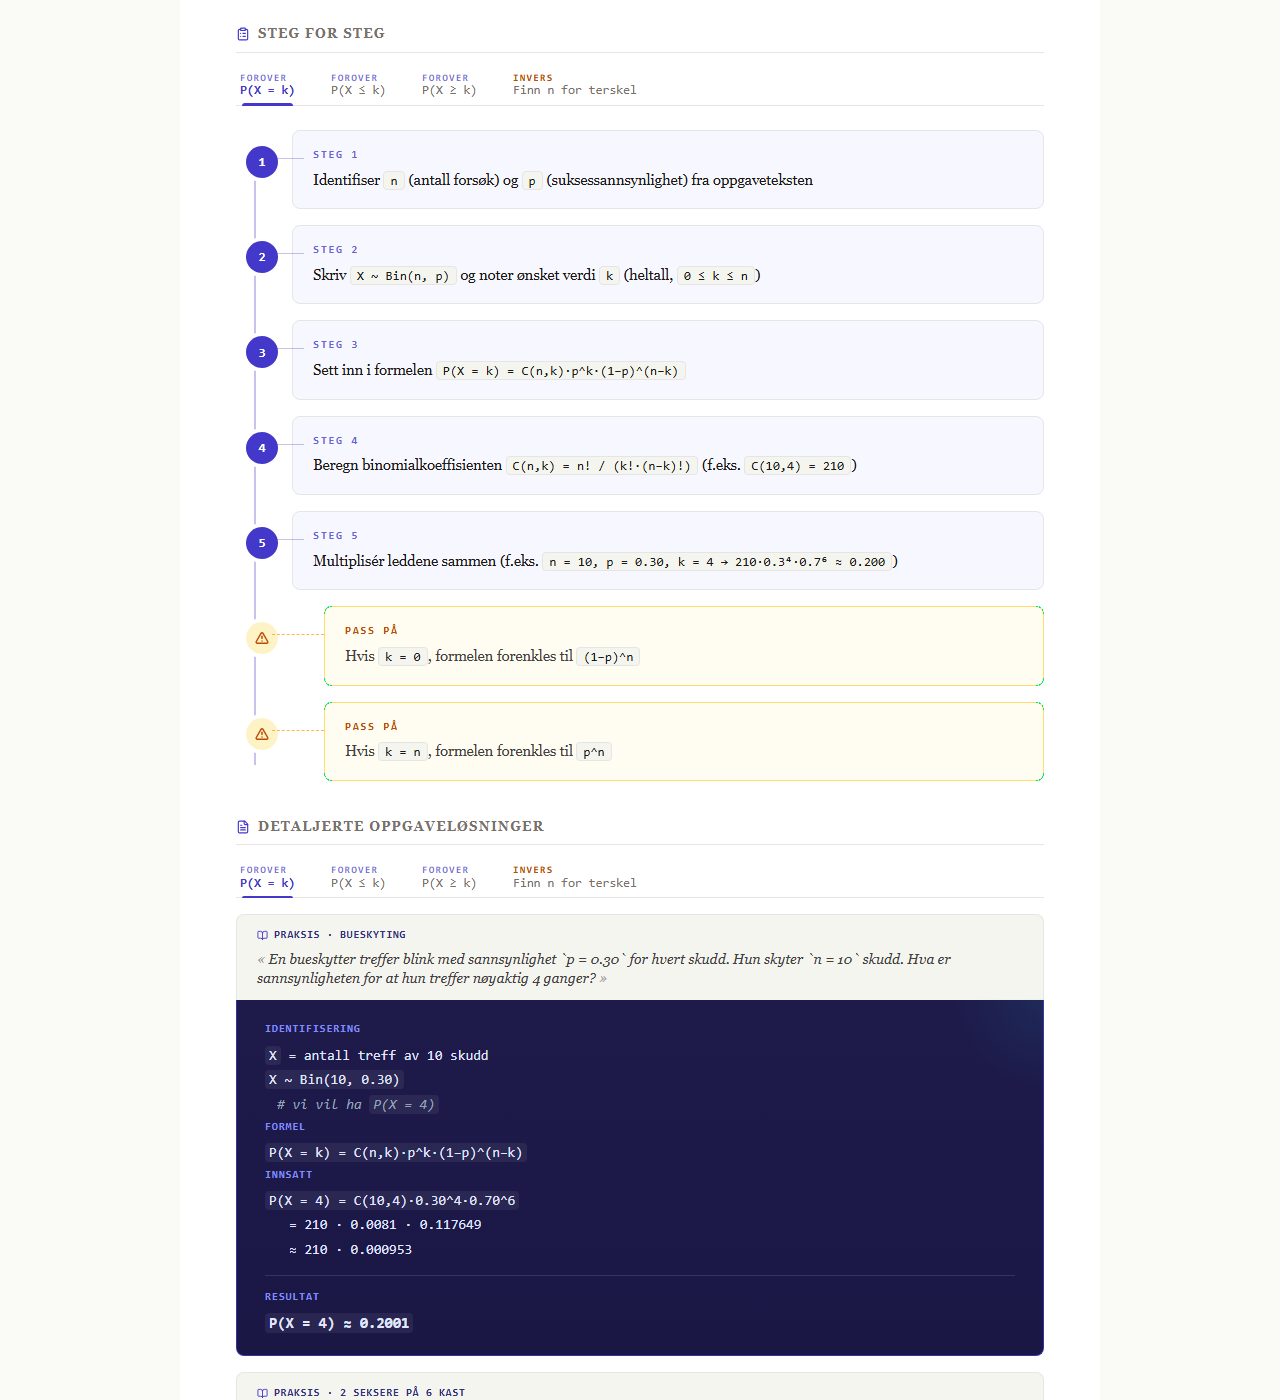
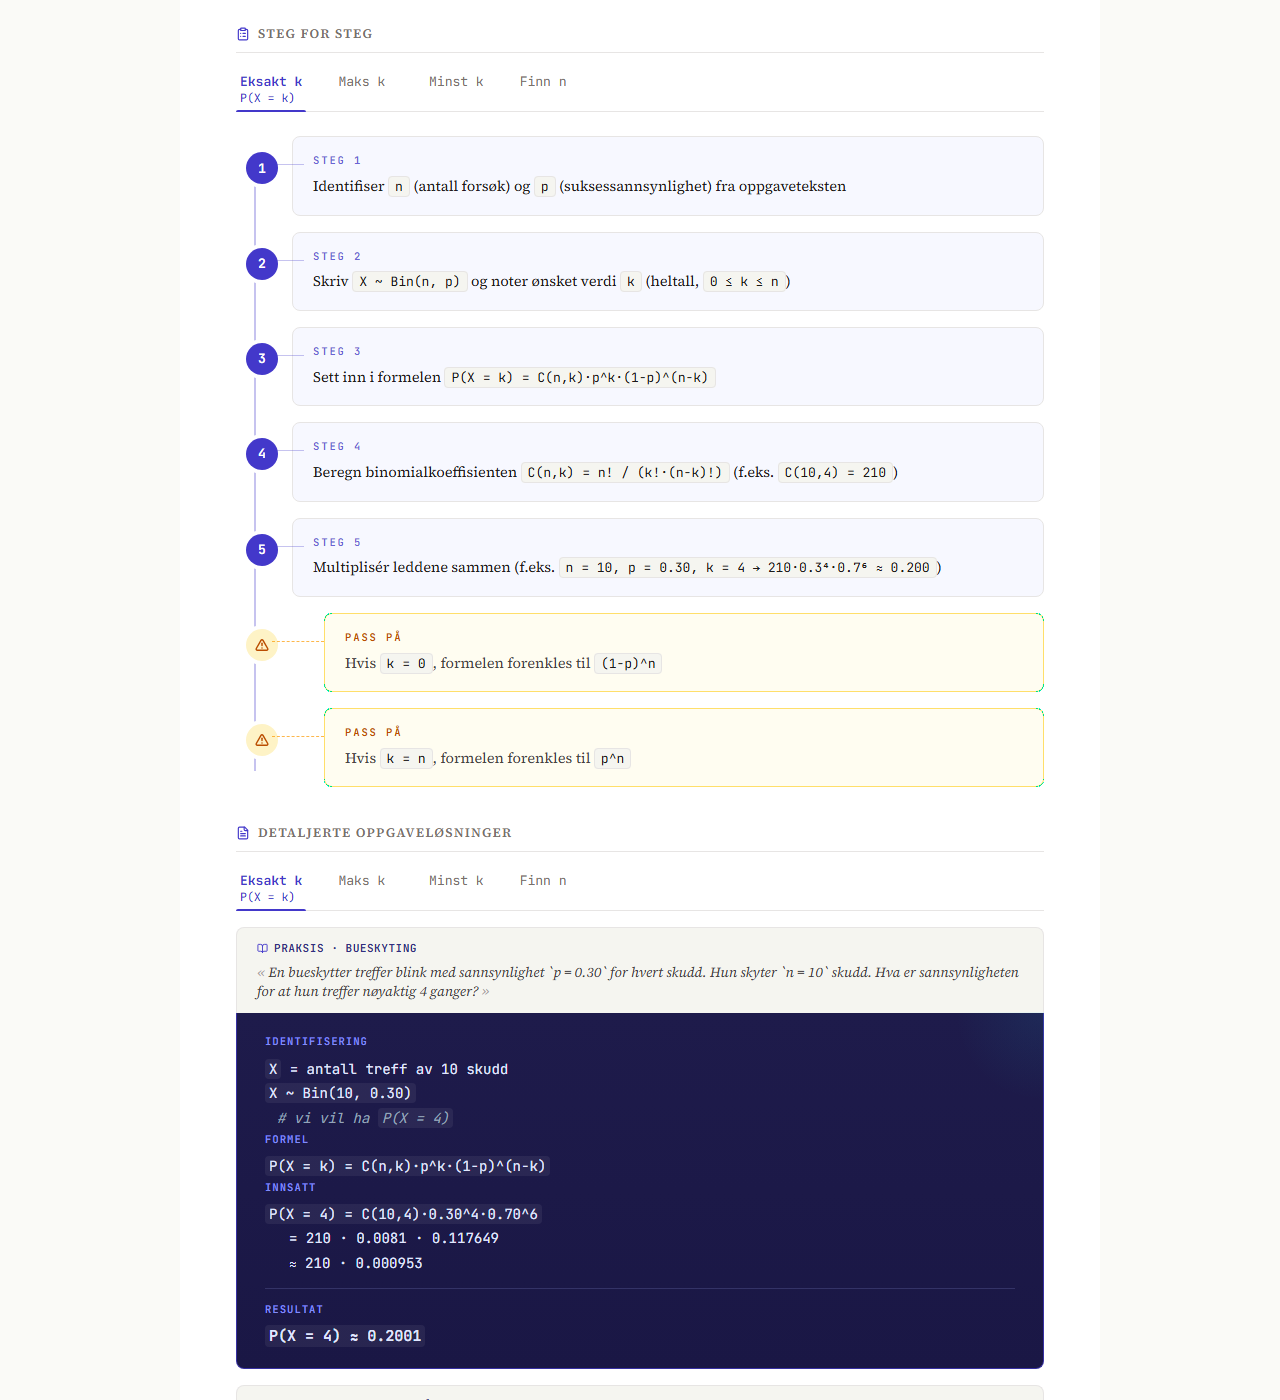
feat(detail): disclosure tabs with semantic names + stable height
The variant tab strip now shows just the natural-language name at
rest (e.g. "Mindre enn", "Større enn", "Intervall", "Finn x") and
reveals the formula expression below only on the active tab —
without shifting the rest of the page when a tab is selected.

- tab-category.ts: deriveTabMeta now returns both `short` (the
  natural name) and `formula` (the expression). Pattern matchers
  for P(X<x) → "Mindre enn", P(X≥k) → "Minst k", P(X=0) → "Ingen",
  em-dash tail like "P(T>t) — overlevelse" → "Overlevelse",
  hypothesis direction in parens → "Venstre"/"Høyre"/"Tosidig",
  Sum/Differanse/Lineær kombinasjon. Falls back to a cleaned label.
- VariantTabBar: dropped the FOROVER/INVERS small-caps row. Each
  tab always reserves space for the formula slot — opacity is
  toggled on active so the strip's height is constant. Underline
  colour follows kind (indigo for forover, amber for invers).
- vite.config: exclude .worktrees/** from the test runner so
  orphan worktree leftovers don't pollute the test sweep.

diff --git a/src/components/detail/tab-category.ts b/src/components/detail/tab-category.ts
@@ -1,55 +1,148 @@
 export type TabKind = "forover" | "invers" | "neutral";
 
 export interface TabMeta {
-  /** Small-caps category badge above the label, or `null` to omit. */
+  /** Small-caps category badge above the name, or `null` to omit. */
   tag: string | null;
   kind: TabKind;
-  /** The label with the redundant category prefix removed. */
+  /**
+   * Natural-language short name shown on the tab itself
+   * (e.g. "Mindre enn", "Finn x", "Venstre"). Always present.
+   */
   short: string;
+  /**
+   * Formula expression revealed when the tab is active in the
+   * disclosure layout (e.g. "P(X < x)", "H₁: μ < μ₀").
+   * `undefined` when the variant has no compact formula form.
+   */
+  formula?: string;
 }
 
 const PAREN_DIRECTION = /^(.+?)\s*\((venstre|høyre|tosidig)\)\s*$/i;
 
-function stripDescriptiveTail(text: string): string {
-  const dashSplit = text.split(/\s+[—–]\s+/);
-  const head = dashSplit[0].trim();
-  const parenStripped = head.replace(/\s+\([^)]+\)\s*$/, "");
-  return parenStripped || head || text;
+function capitalize(s: string): string {
+  return s.length ? s.charAt(0).toUpperCase() + s.slice(1) : s;
 }
 
 /**
- * Derives a short scannable label and an optional category badge from
- * a raw variant label. Used by the variant tab strips to give the
- * tabs visual hierarchy (small-caps tag over the formula) instead of
- * looking like one undifferentiated math expression.
+ * Strip a trailing parenthetical clarification ("Memoryless (gitt at …)")
+ * but keep parens that are part of an expression like "P(X = k)".
+ */
+function stripDescriptiveParen(text: string): string {
+  return text.replace(/\s+\([^)]+\)\s*$/, "").trim();
+}
+
+/**
+ * Derives a small natural-language name + an optional formula expression
+ * from a raw variant label. The tab strip uses `short` as the resting
+ * label and `formula` as the disclosure body that appears under the
+ * active tab. Heuristics — entries don't need to specify these
+ * explicitly. Falls back to the cleaned-up label if no pattern matches.
  */
 export function deriveTabMeta(label: string): TabMeta {
   const trimmed = label.trim();
 
+  // 1) Hypothesis-test direction in trailing parens — "(venstre)"/"(høyre)"/"(tosidig)"
   const dir = trimmed.match(PAREN_DIRECTION);
   if (dir) {
     return {
       tag: dir[2].toUpperCase(),
       kind: "forover",
-      short: dir[1].trim(),
+      short: capitalize(dir[2].toLowerCase()),
+      formula: dir[1].trim(),
     };
   }
 
+  // 2) "Invers: finn x" / "Invers: finn μ (eller σ)"
   if (/^Invers\b/i.test(trimmed)) {
-    const after = trimmed.replace(/^Invers\s*[:\-–—]?\s*/i, "");
-    const short = after
-      ? after.charAt(0).toUpperCase() + after.slice(1)
-      : trimmed;
-    return { tag: "INVERS", kind: "invers", short };
+    const after = trimmed.replace(/^Invers\s*[:\-–—]?\s*/i, "").trim();
+    if (!after) return { tag: "INVERS", kind: "invers", short: "Invers" };
+    // Strip parenthetical clarification when forming the short name.
+    const baseShort = capitalize(after.replace(/\s+\([^)]+\)\s*$/, ""));
+    return { tag: "INVERS", kind: "invers", short: baseShort, formula: trimmed };
   }
 
-  if (/^Finn\b/i.test(trimmed)) {
-    return { tag: "INVERS", kind: "invers", short: trimmed };
+  // 3) "Finn n for terskel" / "Finn k for terskel"
+  const findM = trimmed.match(/^Finn\s+(\S+)(?:\s+for\s+terskel)?/i);
+  if (findM) {
+    return {
+      tag: "INVERS",
+      kind: "invers",
+      short: `Finn ${findM[1]}`,
+      formula: trimmed,
+    };
   }
 
+  // 4) Probability expressions — "P(X < x)", "P(X = k)", etc.
   if (/^P\s*\(/.test(trimmed)) {
-    return { tag: "FOROVER", kind: "forover", short: stripDescriptiveTail(trimmed) };
+    // 4a) Em-dash carries an explicit name: "P(T > t) — overlevelse (...)"
+    const dashSplit = trimmed.split(/\s+[—–]\s+/);
+    const head = dashSplit[0].trim();
+    if (dashSplit.length > 1) {
+      const tailRaw = dashSplit.slice(1).join(" — ");
+      const tail = capitalize(stripDescriptiveParen(tailRaw));
+      return { tag: "FOROVER", kind: "forover", short: tail, formula: head };
+    }
+    // 4b) No explicit name — pattern-match the expression
+    const inner = head.match(/^P\s*\(([^)]+)\)/)?.[1].trim() ?? "";
+    const formula = head;
+    if (/=\s*0\b/.test(inner)) {
+      return { tag: "FOROVER", kind: "forover", short: "Ingen", formula };
+    }
+    if (/<.*<|≤.*≤/.test(inner)) {
+      return { tag: "FOROVER", kind: "forover", short: "Intervall", formula };
+    }
+    if (/[≤<]\s*[a-zA-ZμσXTtxk0-9]+\s*$/.test(inner) && !/[<≤]\s*[a-zA-ZμσXTtxk0-9]+\s*[<≤]/.test(inner)) {
+      // Single < or ≤ — but distinguish strict vs cumulative
+      if (/X\s*≤/.test(inner) || /T\s*≤/.test(inner)) {
+        return { tag: "FOROVER", kind: "forover", short: "Maks k", formula };
+      }
+      return { tag: "FOROVER", kind: "forover", short: "Mindre enn", formula };
+    }
+    if (/[>≥]/.test(inner)) {
+      if (/X\s*≥/.test(inner) || /T\s*≥/.test(inner)) {
+        return { tag: "FOROVER", kind: "forover", short: "Minst k", formula };
+      }
+      return { tag: "FOROVER", kind: "forover", short: "Større enn", formula };
+    }
+    if (/=/.test(inner)) {
+      return { tag: "FOROVER", kind: "forover", short: "Eksakt k", formula };
+    }
+    return { tag: "FOROVER", kind: "forover", short: head, formula };
   }
 
-  return { tag: null, kind: "neutral", short: stripDescriptiveTail(trimmed) };
+  // 5) Sum-uavhengige-normaler shapes
+  const sumLike = trimmed.match(/^(Sum|Differanse|Lineær kombinasjon)\s+(.+)$/i);
+  if (sumLike) {
+    const head = sumLike[1];
+    return {
+      tag: null,
+      kind: "neutral",
+      short: head === "Lineær kombinasjon" ? "Lineær" : capitalize(head.toLowerCase()),
+      formula: sumLike[2].trim(),
+    };
+  }
+
+  // 6) total-sannsynlighet variants
+  if (/^Forover\b/i.test(trimmed)) return { tag: "FOROVER", kind: "forover", short: "Forover", formula: trimmed };
+  if (/^Bakover\b/i.test(trimmed)) return { tag: "INVERS", kind: "invers", short: "Bakover", formula: trimmed };
+
+  // 7) Memoryless and similar "Single-word (descriptive paren)" patterns
+  const wordParen = trimmed.match(/^([A-Za-zæøåÆØÅ][\wæøåÆØÅ-]+)\s*\([^)]+\)\s*$/);
+  if (wordParen) {
+    return { tag: null, kind: "neutral", short: capitalize(wordParen[1]), formula: undefined };
+  }
+
+  // 8) komplementregelen-style names
+  const compactMap: Record<string, string> = {
+    "Minst k": "Minst k",
+    "Ingen / null": "Ingen",
+    "Ikke alle": "Ikke alle",
+  };
+  if (compactMap[trimmed]) {
+    return { tag: null, kind: "neutral", short: compactMap[trimmed] };
+  }
+
+  // 9) Long descriptive phrases — chop at first " — " or " (" and capitalize
+  const cleaned = stripDescriptiveParen(trimmed.split(/\s+[—–]\s+/)[0]);
+  return { tag: null, kind: "neutral", short: cleaned };
 }

diff --git a/src/components/detail/VariantTabBar.tsx b/src/components/detail/VariantTabBar.tsx
@@ -10,26 +10,34 @@ interface Props {
 }
 
 /**
- * Two-line variant tab strip: small-caps category tag (FOROVER /
- * INVERS / VENSTRE / …) over the cleaned-up label. When none of the
- * labels yield a category (e.g. Bayes-setning's method-style labels),
- * the tag row is omitted so the strip stays single-line.
+ * Disclosure-style variant tab strip with stable layout. Each tab
+ * shows its natural-language name (e.g. "Mindre enn", "Finn x") and
+ * reserves space below for the formula expression. The formula is
+ * faded in only on the active tab — total tab height is constant so
+ * the rest of the page never shifts when a tab is selected.
+ *
+ * The forover/invers distinction is carried by colour on the active
+ * state (indigo vs amber) and not by an explicit small-caps tag —
+ * the natural name itself is the category label.
  */
 export function VariantTabBar({ labels, active, onSelect, ariaLabel }: Props) {
   const metas = labels.map(deriveTabMeta);
-  const anyTag = metas.some((m) => m.tag !== null);
+  const anyFormula = metas.some((m) => m.formula);
 
   return (
     <div
       role="tablist"
       aria-label={ariaLabel}
-      className="flex flex-wrap gap-x-7 gap-y-0 border-b border-line"
+      className="flex flex-wrap items-stretch gap-x-7 gap-y-0 border-b border-line"
     >
       {labels.map((label, i) => {
         const meta = metas[i];
         const isActive = i === active;
-        const tagColor =
-          meta.kind === "invers" ? "text-amber-700" : "text-primary-2/70";
+        const activeText =
+          meta.kind === "invers" ? "text-amber-700" : "text-primary-2";
+        const activeUnderline =
+          meta.kind === "invers" ? "bg-amber-500" : "bg-primary-2";
+
         return (
           <button
             key={label}
@@ -39,35 +47,37 @@ export function VariantTabBar({ labels, active, onSelect, ariaLabel }: Props) {
             aria-label={label}
             onClick={() => onSelect(i)}
             className={clsx(
-              "relative flex flex-col items-start gap-0.5 px-1 pb-2 pt-1.5 leading-none transition-colors",
-              "focus:outline-none focus-visible:ring-2 focus-visible:rounded-sm focus-visible:ring-primary-2/60",
-              isActive ? "text-primary-2" : "text-ink-3 hover:text-ink-2",
+              "relative flex flex-col items-start px-1 pb-2 pt-2 leading-none",
+              "focus:outline-none focus-visible:rounded-sm focus-visible:ring-2 focus-visible:ring-primary-2/60",
+              isActive
+                ? clsx(activeText, "transition-colors")
+                : "text-ink-3 transition-colors hover:text-ink-2",
             )}
           >
-            {anyTag && (
-              <span
-                aria-hidden
-                className={clsx(
-                  "font-mono text-[9.5px] font-semibold uppercase tracking-[0.16em]",
-                  meta.tag ? tagColor : "select-none opacity-0",
-                )}
-              >
-                {meta.tag ?? "—"}
-              </span>
-            )}
             <span
               className={clsx(
-                "font-mono text-[12.5px]",
+                "font-mono text-[13px] transition-[font-weight] duration-150",
                 isActive && "font-semibold",
               )}
             >
               {meta.short}
             </span>
+            {anyFormula && (
+              <span
+                aria-hidden={!isActive}
+                className={clsx(
+                  "mt-1 font-mono text-[11.5px] transition-opacity duration-200 ease-out",
+                  isActive ? "opacity-100" : "opacity-0",
+                )}
+              >
+                {meta.formula ?? " "}
+              </span>
+            )}
             <span
               aria-hidden
               className={clsx(
-                "absolute inset-x-1.5 -bottom-px h-[2.5px] rounded-t-sm transition-all",
-                isActive ? "bg-primary-2" : "bg-transparent",
+                "absolute inset-x-0 -bottom-px h-[2.5px] rounded-t-sm transition-all",
+                isActive ? activeUnderline : "bg-transparent",
               )}
             />
           </button>

diff --git a/src/components/detail/tab-category.test.ts b/src/components/detail/tab-category.test.ts
@@ -2,53 +2,77 @@ import { describe, it, expect } from "vitest";
 import { deriveTabMeta } from "./tab-category";
 
 describe("deriveTabMeta", () => {
-  it("tags 'Invers: ...' labels as INVERS and capitalises the rest", () => {
-    expect(deriveTabMeta("Invers: finn x")).toEqual({
-      tag: "INVERS",
-      kind: "invers",
-      short: "Finn x",
+  it("derives 'Mindre enn' / 'Større enn' / 'Intervall' from P(X<x), P(X>x), P(a<X<b)", () => {
+    expect(deriveTabMeta("P(X < x)")).toEqual({
+      tag: "FOROVER",
+      kind: "forover",
+      short: "Mindre enn",
+      formula: "P(X < x)",
     });
+    expect(deriveTabMeta("P(X > x)").short).toBe("Større enn");
+    expect(deriveTabMeta("P(a < X < b)").short).toBe("Intervall");
   });
 
-  it("tags 'Finn ...' labels as INVERS without rewriting the short", () => {
-    expect(deriveTabMeta("Finn n for terskel")).toEqual({
-      tag: "INVERS",
-      kind: "invers",
-      short: "Finn n for terskel",
-    });
+  it("recognises P(X = k), P(X ≤ k), P(X ≥ k), P(X = 0) shapes", () => {
+    expect(deriveTabMeta("P(X = k)").short).toBe("Eksakt k");
+    expect(deriveTabMeta("P(X ≤ k)").short).toBe("Maks k");
+    expect(deriveTabMeta("P(X ≥ k)").short).toBe("Minst k");
+    expect(deriveTabMeta("P(X = 0)").short).toBe("Ingen");
   });
 
-  it("tags 'P(...)' labels as FOROVER and drops the descriptive em-dash tail", () => {
+  it("uses the em-dash tail as the natural-language name", () => {
     expect(deriveTabMeta("P(T > t) — overlevelse (ingen hendelse innen t)")).toEqual({
       tag: "FOROVER",
       kind: "forover",
-      short: "P(T > t)",
+      short: "Overlevelse",
+      formula: "P(T > t)",
     });
   });
 
-  it("extracts hypothesis-direction from a parenthetical suffix", () => {
+  it("captures hypothesis-test direction in the trailing parens", () => {
     expect(deriveTabMeta("H₁: μ < μ₀ (venstre)")).toEqual({
       tag: "VENSTRE",
       kind: "forover",
-      short: "H₁: μ < μ₀",
+      short: "Venstre",
+      formula: "H₁: μ < μ₀",
     });
     expect(deriveTabMeta("H₁: μ ≠ μ₀ (tosidig)").tag).toBe("TOSIDIG");
     expect(deriveTabMeta("H₁: μ > μ₀ (høyre)").tag).toBe("HØYRE");
   });
 
-  it("returns no tag for neutral labels and strips a trailing parenthetical", () => {
-    expect(deriveTabMeta("Multi-hypotese (3+ partisjoner)")).toEqual({
+  it("strips the 'Invers:' prefix and the parenthetical when forming the short name", () => {
+    expect(deriveTabMeta("Invers: finn x")).toMatchObject({
+      tag: "INVERS",
+      kind: "invers",
+      short: "Finn x",
+    });
+    expect(deriveTabMeta("Invers: finn μ (eller σ)").short).toBe("Finn μ");
+  });
+
+  it("handles 'Finn n for terskel' style as INVERS · 'Finn n'", () => {
+    expect(deriveTabMeta("Finn n for terskel")).toMatchObject({
+      tag: "INVERS",
+      short: "Finn n",
+    });
+    expect(deriveTabMeta("Finn k for terskel").short).toBe("Finn k");
+  });
+
+  it("treats 'Memoryless (...)' as a neutral single-word name", () => {
+    expect(deriveTabMeta("Memoryless (gitt at det ikke har skjedd noe i s minutter)")).toMatchObject({
       tag: null,
       kind: "neutral",
-      short: "Multi-hypotese",
+      short: "Memoryless",
     });
   });
 
-  it("returns no tag and the label unchanged for plain neutral labels", () => {
-    expect(deriveTabMeta("Standard 2-veis")).toEqual({
-      tag: null,
-      kind: "neutral",
-      short: "Standard 2-veis",
-    });
+  it("falls back to a cleaned label for plain neutral cases", () => {
+    expect(deriveTabMeta("Standard 2-veis").short).toBe("Standard 2-veis");
+    expect(deriveTabMeta("Multi-hypotese (3+ partisjoner)").short).toBe("Multi-hypotese");
+  });
+
+  it("recognises Sum/Differanse/Lineær kombinasjon", () => {
+    expect(deriveTabMeta("Sum X+Y").short).toBe("Sum");
+    expect(deriveTabMeta("Differanse X−Y").short).toBe("Differanse");
+    expect(deriveTabMeta("Lineær kombinasjon aX+bY").short).toBe("Lineær");
   });
 });

diff --git a/vite.config.ts b/vite.config.ts
@@ -20,5 +20,6 @@ export default defineConfig({
     environment: "jsdom",
     globals: true,
     setupFiles: ["./src/test/setup.ts"],
+    exclude: ["node_modules/**", "dist/**", ".worktrees/**"],
   },
 });
